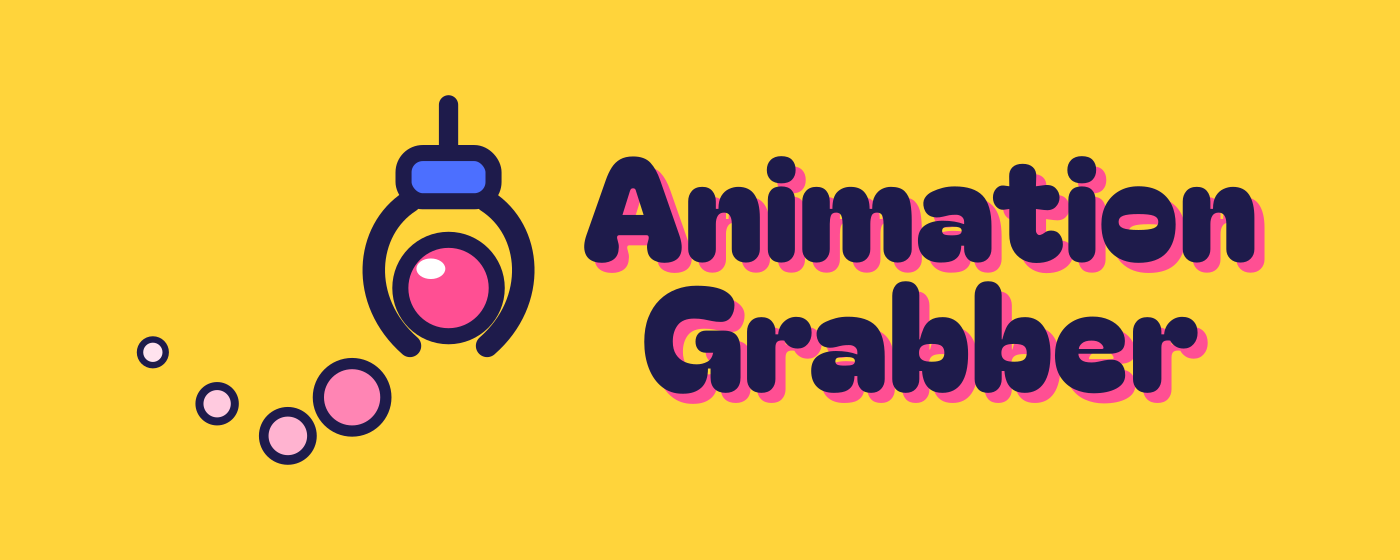
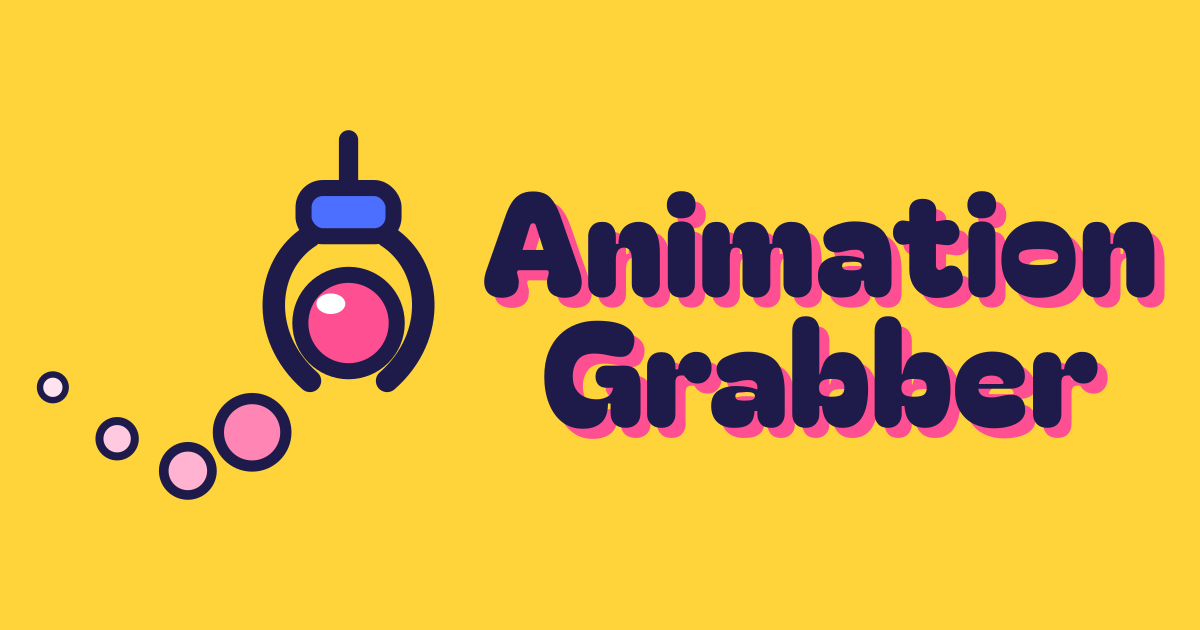
fix(web): resize share image to 1200x630 and fill version at build time (#13)
* fix(web): resize share image to 1200x630 and fill version at build time

- Pad og.png to 1200x630 (1.91:1) so Facebook/LinkedIn stop cropping it; update og:image dimensions
- Replace hand-typed 0.2.0 in JSON-LD and footer with %VITE_APP_VERSION%, set from package.json in dev/build scripts
- Add og:image:alt / twitter:image:alt, link author to parent site person entity

* chore: add changeset for web share image and version fix

Also let the pre-commit format job pass when every staged file is in
oxfmt's ignore list (e.g. a changeset-only commit).

* chore: release all packages on one shared version

Put the CLI, core, extension and web packages in a changesets fixed
group so every release bumps them together.

* chore: drop unused version from root package.json

Changesets doesn't manage the private monorepo root, so its version
only went stale. Package versions live in the workspace packages.

* fix: allow author surname in spell check

Add Blanton to the cspell word list, and spell-check staged .js, .html
and .css files in pre-commit so it matches what CI checks.

* chore: format betterhook.toml and format-check staged toml files

Changed region(s): [[0.0617, 0.1518, 0.9867, 0.85], [0.0308, 0.5768, 0.0617, 0.6375]]

diff --git a/apps/web/index.html b/apps/web/index.html
@@ -46,15 +46,23 @@
     />
     <meta
       property="og:image:width"
-      content="1400"
+      content="1200"
     />
     <meta
       property="og:image:height"
-      content="560"
+      content="630"
+    />
+    <meta
+      property="og:image:alt"
+      content="Animation Grabber logo: a claw grabbing a pink ball, beside the name"
     />
     <meta
       name="twitter:card"
       content="summary_large_image"
+    />
+    <meta
+      name="twitter:image:alt"
+      content="Animation Grabber logo: a claw grabbing a pink ball, beside the name"
     />
     <script type="application/ld+json">
       {
@@ -66,14 +74,15 @@
         "image": "https://shotcowboystyle.github.io/projects/animation-grabber/og.png",
         "applicationCategory": "DeveloperApplication",
         "operatingSystem": "Chrome, macOS, Linux, Windows",
-        "softwareVersion": "0.2.0",
+        "softwareVersion": "%VITE_APP_VERSION%",
         "license": "https://opensource.org/licenses/MIT",
         "isAccessibleForFree": true,
         "offers": { "@type": "Offer", "price": "0", "priceCurrency": "USD" },
         "downloadUrl": "https://chromewebstore.google.com/detail/animation-grabber/gjbjbopalknppknbeenhcgjahohigoal",
         "author": {
           "@type": "Person",
-          "name": "shotcowboystyle",
+          "@id": "https://shotcowboystyle.github.io/#person",
+          "name": "Curtis Blanton",
           "url": "https://shotcowboystyle.github.io/"
         },
         "sameAs": [
@@ -543,13 +552,8 @@ gsap.to(".feature-card", {
       </div>
       <p>
         Crafted by
-        <a
-          href="https://github.com/shotcowboystyle"
-          rel="noopener"
-          target="_blank"
-          >shotcowboystyle</a
-        >
-        · v0.2.0 · not affiliated with GreenSock
+        <a href="https://shotcowboystyle.github.io/">Curtis Blanton</a>
+        · v%VITE_APP_VERSION% · not affiliated with GreenSock
       </p>
     </footer>
 

diff --git a/.changeset/web-og-image-version.md b/.changeset/web-og-image-version.md
@@ -1,0 +1,5 @@
+---
+"@animation-grabber/web": patch
+---
+
+Resize share image to 1200x630 so social previews stop cropping it, and fill the site version from package.json at build time
